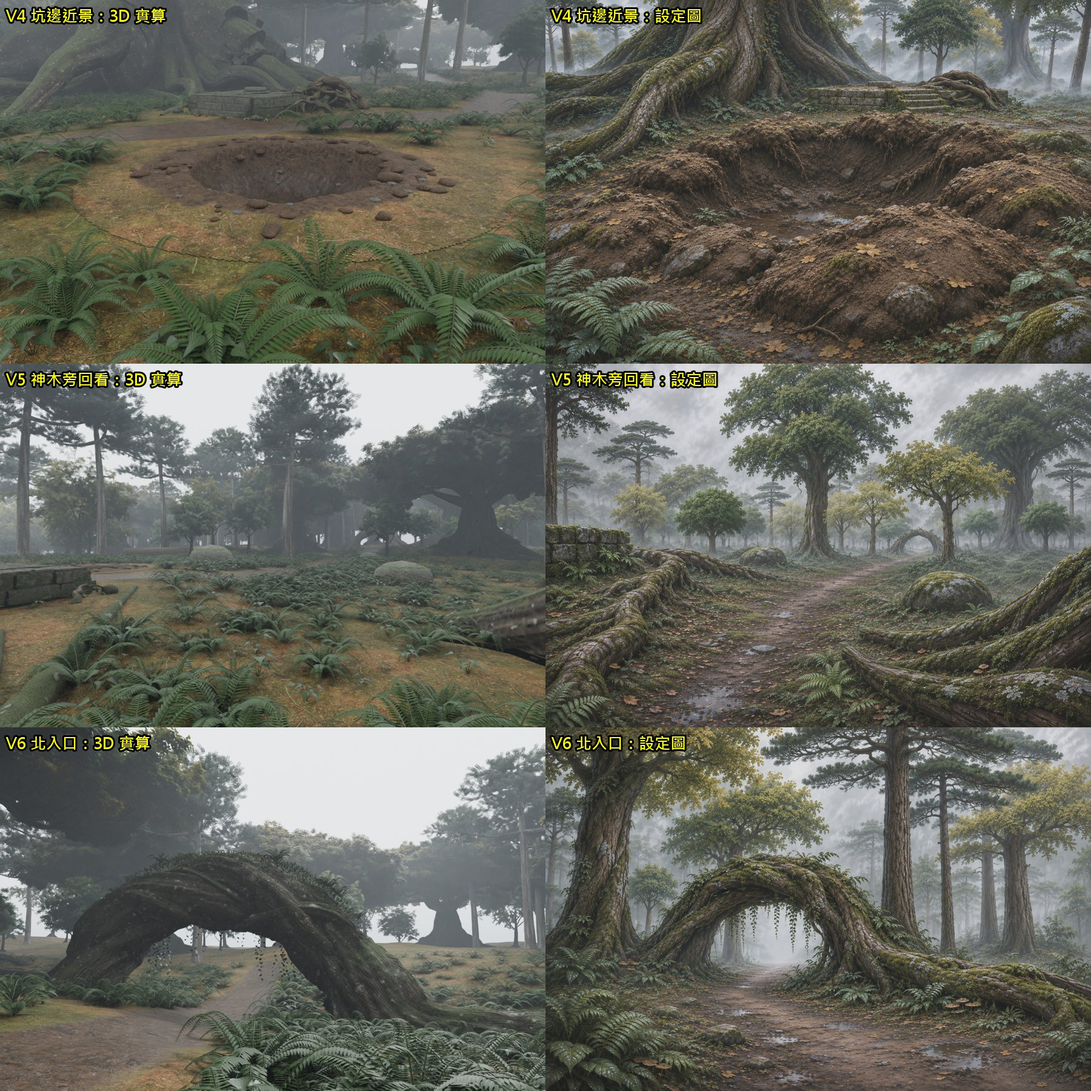
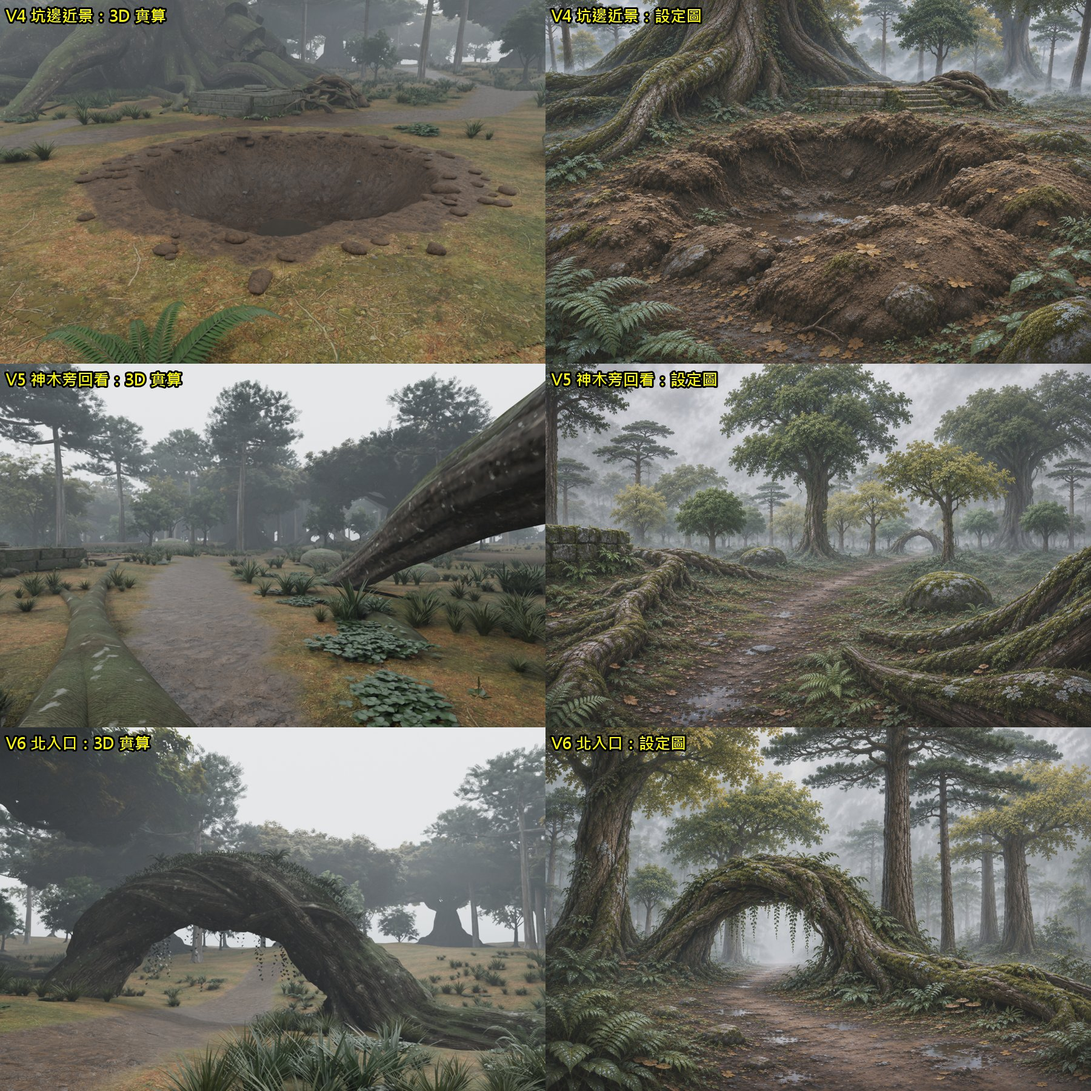
D2: five new weed species with variants, clustered lower-density undergrowth, larger CO02 pit, branch path for V5

Changed region(s): [[0.0, 0.0, 0.4978, 0.6844], [0.0, 0.8711, 0.4978, 1.0]]

diff --git a/art/source/core-d2-v1/ground/weeds.py b/art/source/core-d2-v1/ground/weeds.py
@@ -1,0 +1,124 @@
+# D2 林下雜草（z1nnz 11/21：地上的草重複率太高、要別的雜草）——由場景腳本在 plants.py 之後 exec
+#   需要 bpy, math, Vector, LeafBuf, _frame, _leaf_material
+#   每種都是一片片立體葉/草葉，不用貼圖卡；做成多個隨機變體給場景輪流用
+
+
+def grass_tuft(name, pos, R, size=1.0, mat=None, dry=.0):
+    """草叢：40–90 片細長草葉，從一點放射、往外彎垂；葉尖部分枯黃。"""
+    buf = LeafBuf()
+    n = R.randint(90, 160)
+    for i in range(n):
+        az = R.uniform(0, 6.283)
+        lean = R.uniform(.1, .7)
+        d = Vector((math.cos(az) * lean, math.sin(az) * lean, 1)).normalized()
+        L = size * R.uniform(.22, .55)
+        d, side, nrm = _frame(d)
+        g = R.uniform(.8, 1.15)
+        yel = dry * R.random()
+        buf.leaf(pos + Vector((R.uniform(-.04, .04), R.uniform(-.04, .04), 0)), d, side, nrm, L, L * R.uniform(.025, .04),
+                 shape=lambda u: (1 - u) ** .7, fold=.25, curl=0, droop=R.uniform(.25, .7),
+                 tint=(g * (1 + yel * .9), g * (1 + yel * .4), g * (1 - yel * .5)), nu=7, nv=1, twist=R.uniform(-.6, .6))
+    return buf.build(name, mat)
+
+
+def sedge(name, pos, R, size=1.0, mat=None):
+    """莎草：較高較挺的三稜葉，叢狀直立，葉尖下垂。"""
+    buf = LeafBuf()
+    n = R.randint(32, 52)
+    for i in range(n):
+        az = R.uniform(0, 6.283)
+        lean = R.uniform(.05, .35)
+        d = Vector((math.cos(az) * lean, math.sin(az) * lean, 1)).normalized()
+        L = size * R.uniform(.45, .85)
+        d, side, nrm = _frame(d)
+        g = R.uniform(.85, 1.1)
+        buf.leaf(pos + Vector((R.uniform(-.05, .05), R.uniform(-.05, .05), 0)), d, side, nrm, L, L * .035,
+                 shape=lambda u: (1 - u) ** .5, fold=.45, curl=0, droop=R.uniform(.35, .8), tint=(g * .9, g, g * .8), nu=8, nv=1)
+    return buf.build(name, mat)
+
+
+def clover(name, pos, R, size=1.0, mat=None):
+    """地被小草（酢漿草／三葉草類）：貼地的一片，細柄頂三片小圓心葉。"""
+    buf = LeafBuf()
+    n = R.randint(60, 100)
+    for i in range(n):
+        a = R.uniform(0, 6.283)
+        r = size * .45 * R.uniform(0, 1) ** .6
+        base = pos + Vector((math.cos(a) * r, math.sin(a) * r, size * R.uniform(.05, .15)))
+        rot = R.uniform(0, 6.283)
+        g = R.uniform(.85, 1.15)
+        for k in range(3):
+            az = rot + k * 2.094
+            d = Vector((math.cos(az), math.sin(az), R.uniform(-.1, .15)))
+            d, side, nrm = _frame(d)
+            L = size * R.uniform(.055, .085)
+            buf.leaf(base, d, side, nrm, L, L * .55, shape=lambda u: math.sin(math.pi * min(1, u)) ** .5 * (1 - .35 * max(0, u - .8) / .2),
+                     fold=.25, curl=.05, droop=0, tint=(g, g, g), nu=5, nv=3)
+    return buf.build(name, mat)
+
+
+def rosette(name, pos, R, size=1.0, mat=None):
+    """寬葉蓮座草（車前草類）：6–12 片橢圓寬葉貼地展開，中間抽一兩根細穗。"""
+    buf = LeafBuf()
+    n = R.randint(6, 12)
+    for i in range(n):
+        az = i / n * 6.283 + R.uniform(-.2, .2)
+        d = Vector((math.cos(az), math.sin(az), R.uniform(.35, .8)))
+        d, side, nrm = _frame(d)
+        L = size * R.uniform(.18, .3)
+        g = R.uniform(.85, 1.1)
+        buf.leaf(pos, d, side, nrm, L, L * .42, shape=lambda u: math.sin(math.pi * min(1, u * 1.02)) ** .8,
+                 fold=.2, curl=.1, droop=.25, tint=(g, g, g * .9), nu=8, nv=4, twist=R.uniform(-.3, .3))
+    for k in range(R.randint(0, 2)):
+        d = Vector((R.uniform(-.15, .15), R.uniform(-.15, .15), 1)).normalized()
+        d, side, nrm = _frame(d)
+        L = size * R.uniform(.25, .4)
+        buf.leaf(pos, d, side, nrm, L, .006 * size, shape=lambda u: 1 if u < .6 else 2.2, fold=0, curl=0, droop=.05,
+                 tint=(.7, .65, .45), nu=6, nv=1)
+    return buf.build(name, mat)
+
+
+def sapling(name, pos, R, size=1.0, mat=None, stem_mat=None):
+    """小樹苗：一根細莖、幾段互生的卵形葉。"""
+    buf = LeafBuf()
+    H = size * R.uniform(.45, .9)
+    lean = Vector((R.uniform(-.15, .15), R.uniform(-.15, .15), 1)).normalized()
+    pts = [pos + lean * H * t + Vector((math.sin(t * 5) * .02, 0, 0)) for t in [i / 8 for i in range(9)]]
+    nl = R.randint(7, 14)
+    for k in range(nl):
+        t = .3 + .7 * k / nl
+        p = pts[int(t * 8)]
+        az = k * 2.4
+        d = Vector((math.cos(az), math.sin(az), .3))
+        d, side, nrm = _frame(d)
+        L = size * R.uniform(.13, .2) * (1.2 - t * .4)
+        g = R.uniform(.85, 1.1)
+        buf.leaf(p, d, side, nrm, L, L * .45, shape=lambda u: math.sin(math.pi * min(1, u)) ** .7 * (1 - u * .3),
+                 fold=.15, curl=.1, droop=.3, tint=(g, g, g), nu=7, nv=3)
+    o = buf.build(name, mat)
+    if stem_mat:
+        sv, sf = [], []
+        for i, q in enumerate(pts):
+            for j in range(3):
+                a = j * 2.094
+                sv.append(tuple(q + Vector((math.cos(a), math.sin(a), 0)) * .006 * size * (1 - i / 10)))
+        for i in range(len(pts) - 1):
+            for j in range(3):
+                a = i * 3 + j
+                sf.append((a, i * 3 + (j + 1) % 3, (i + 1) * 3 + (j + 1) % 3, (i + 1) * 3 + j))
+        sm = bpy.data.meshes.new(name + '_stem')
+        sm.from_pydata(sv, [], sf)
+        sm.materials.append(stem_mat)
+        so = bpy.data.objects.new(name + '_stem', sm)
+        bpy.context.scene.collection.objects.link(so)
+    return o
+
+
+def weed_materials():
+    return {
+        'grass': _leaf_material('UG10_Grass', (.045, .075, .020, 1), (.12, .16, .05, 1), (.13, .17, .06, 1), gloss=.55),
+        'sedge': _leaf_material('UG11_Sedge', (.035, .065, .025, 1), (.09, .14, .05, 1), (.10, .15, .06, 1), gloss=.5),
+        'clover': _leaf_material('UG12_Clover', (.030, .075, .020, 1), (.075, .15, .045, 1), (.10, .17, .06, 1), gloss=.4),
+        'rosette': _leaf_material('UG13_Rosette', (.040, .070, .022, 1), (.10, .15, .05, 1), (.14, .19, .08, 1), gloss=.4),
+        'sapling': _leaf_material('UG14_Sapling', (.050, .085, .020, 1), (.13, .18, .05, 1), (.14, .19, .07, 1), gloss=.45),
+    }

diff --git a/art/source/core-d2-v1/ground/weeds_preview.py b/art/source/core-d2-v1/ground/weeds_preview.py
@@ -1,0 +1,57 @@
+# 雜草樣板一字排開預覽：blender -b --factory-startup -P weeds_preview.py -- <tag>
+import bpy, sys, math, random
+from mathutils import Vector
+S_ = 'D:/chengtian/4-素材與快取/bark-sample/'
+argv = sys.argv[sys.argv.index('--') + 1:] if '--' in sys.argv else []
+TAG = argv[0] if argv else 'w1'
+for o in list(bpy.data.objects):
+    bpy.data.objects.remove(o, do_unlink=True)
+exec(compile(open(S_ + 'plants.py', encoding='utf-8').read(), S_ + 'plants.py', 'exec'))
+exec(compile(open(S_ + 'weeds.py', encoding='utf-8').read(), S_ + 'weeds.py', 'exec'))
+WM = weed_materials()
+fern_mat = _leaf_material('UG01_Fern', (.040, .085, .022, 1), (.085, .16, .040, 1), (.12, .19, .06, 1), gloss=.5)
+heart_mat = _leaf_material('UG02_Heart', (.030, .070, .022, 1), (.070, .13, .040, 1), (.13, .19, .08, 1), gloss=.35)
+stem = bpy.data.materials.new('stem')
+x = 0.0
+items = [
+    lambda p, R: fern('f', p, R, 1.0, fern_mat, stem),
+    lambda p, R: heart_plant('h', p, R, 1.0, heart_mat, stem),
+    lambda p, R: grass_tuft('g', p, R, 1.0, WM['grass'], 0),
+    lambda p, R: grass_tuft('g2', p, R, 1.0, WM['grass'], .7),
+    lambda p, R: sedge('s', p, R, 1.0, WM['sedge']),
+    lambda p, R: clover('c', p, R, 1.0, WM['clover']),
+    lambda p, R: rosette('r', p, R, 1.0, WM['rosette']),
+    lambda p, R: sapling('sp', p, R, 1.0, WM['sapling'], stem),
+]
+for i, fn in enumerate(items):
+    fn(Vector((i * 1.1, 0, 0)), random.Random(i + 3))
+bpy.ops.mesh.primitive_plane_add(size=30, location=(4, 0, 0))
+g = bpy.context.object
+gm = bpy.data.materials.new('g')
+gm.use_nodes = True
+next(n for n in gm.node_tree.nodes if n.type == 'BSDF_PRINCIPLED').inputs['Base Color'].default_value = (.08, .06, .04, 1)
+g.data.materials.append(gm)
+sc = bpy.context.scene
+w = bpy.data.worlds.new('W')
+sc.world = w
+w.use_nodes = True
+next(n for n in w.node_tree.nodes if n.type == 'BACKGROUND').inputs['Strength'].default_value = 1.5
+sun = bpy.data.objects.new('Sun', bpy.data.lights.new('Sun', 'SUN'))
+sun.data.energy = 3
+sun.rotation_euler = (.8, 0, .6)
+sc.collection.objects.link(sun)
+sc.render.engine = 'CYCLES'
+sc.cycles.samples = 48
+sc.cycles.use_denoising = True
+sc.cycles.device = 'GPU'
+sc.view_settings.view_transform = 'AgX'
+sc.render.resolution_x, sc.render.resolution_y = 1800, 700
+cd = bpy.data.cameras.new('c')
+cd.lens = 30
+c = bpy.data.objects.new('c', cd)
+sc.collection.objects.link(c)
+c.location = (3.85, -7.0, 1.4)
+c.rotation_euler = (Vector((3.85, 0, .25)) - c.location).to_track_quat('-Z', 'Y').to_euler()
+sc.camera = c
+sc.render.filepath = S_ + f'weeds_{TAG}.png'
+bpy.ops.render.render(write_still=True)

diff --git a/art/source/core-d2-v1/ground/pit_model.py b/art/source/core-d2-v1/ground/pit_model.py
@@ -15,7 +15,7 @@ noise.seed_set(4)
 for o in list(bpy.data.objects):
     bpy.data.objects.remove(o, do_unlink=True)
 sc = bpy.context.scene
-RW, DEP, OUTR = 2.3, 1.35, 4.6     # 坑口半徑、深度、模型外緣
+RW, DEP, OUTR = 3.4, 1.7, 6.2     # 坑口半徑、深度、模型外緣（z1nnz 11/21：坑不夠大 → 加大）
 
 
 def nz(x, y, s, z=0.0):
@@ -207,7 +207,7 @@ _nt.links.new(_mx.outputs[0], _b.inputs['Base Color'])
 _b.inputs['Roughness'].default_value = .85
 
 clods = bmesh.new()
-for i in range(110):
+for i in range(170):
     a = R.uniform(0, 6.283)
     side = .5 + .5 * math.cos(a - 2.2)
     if R.random() > .35 + .65 * side:
@@ -253,7 +253,7 @@ _mx.inputs[0].default_value = 1
 _mx.inputs[2].default_value = (.55, .42, .30, 1)
 _nt.links.new(_t.outputs['Color'], _mx.inputs[1])
 _nt.links.new(_mx.outputs[0], _b.inputs['Base Color'])
-for i in range(14):
+for i in range(22):
     a = R.uniform(0, 6.283)
     rw = rim(a)
     zz = -R.uniform(.15, .9) * DEP
@@ -288,7 +288,7 @@ cv = bw.verts.new((0, 0, 0))
 ring = []
 for k in range(36):
     a = k / 36 * 6.283
-    rr = .5 * (1 + .3 * nz(math.cos(a), math.sin(a), 1.8, 11.0))
+    rr = .75 * (1 + .3 * nz(math.cos(a), math.sin(a), 1.8, 11.0))
     ring.append(bw.verts.new((math.cos(a) * rr * 1.3 + .25, math.sin(a) * rr * .85 - .1, 0)))
 for k in range(36):
     bw.faces.new((cv, ring[k], ring[(k + 1) % 36]))
